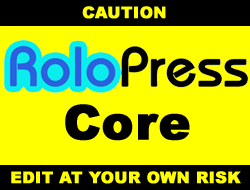
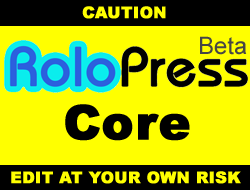
rolopress core: new screenshot with beta
git-svn-id: http://svn.sudarmuthu.com/rolopress/rolopress-core/trunk@89 38a0677f-509c-40db-b594-c9751fff4674

Changed region(s): [[0.784, 0.1842, 1.0, 0.2895]]

diff --git a/style.css b/style.css
@@ -4,7 +4,7 @@ Theme URI: http://rolopress.com
 Description: A Contact Manager built on WordPress
 Author: <a href="http://slipfire.com/">SlipFire</a> &amp; <a href="http://www.sudarmuthu.com/">Sudar Muthu</a>
 Author URI: 
-Version: 0.1
+Version: Beta 0.1
 Tags: contact-manager, crm
 
 
